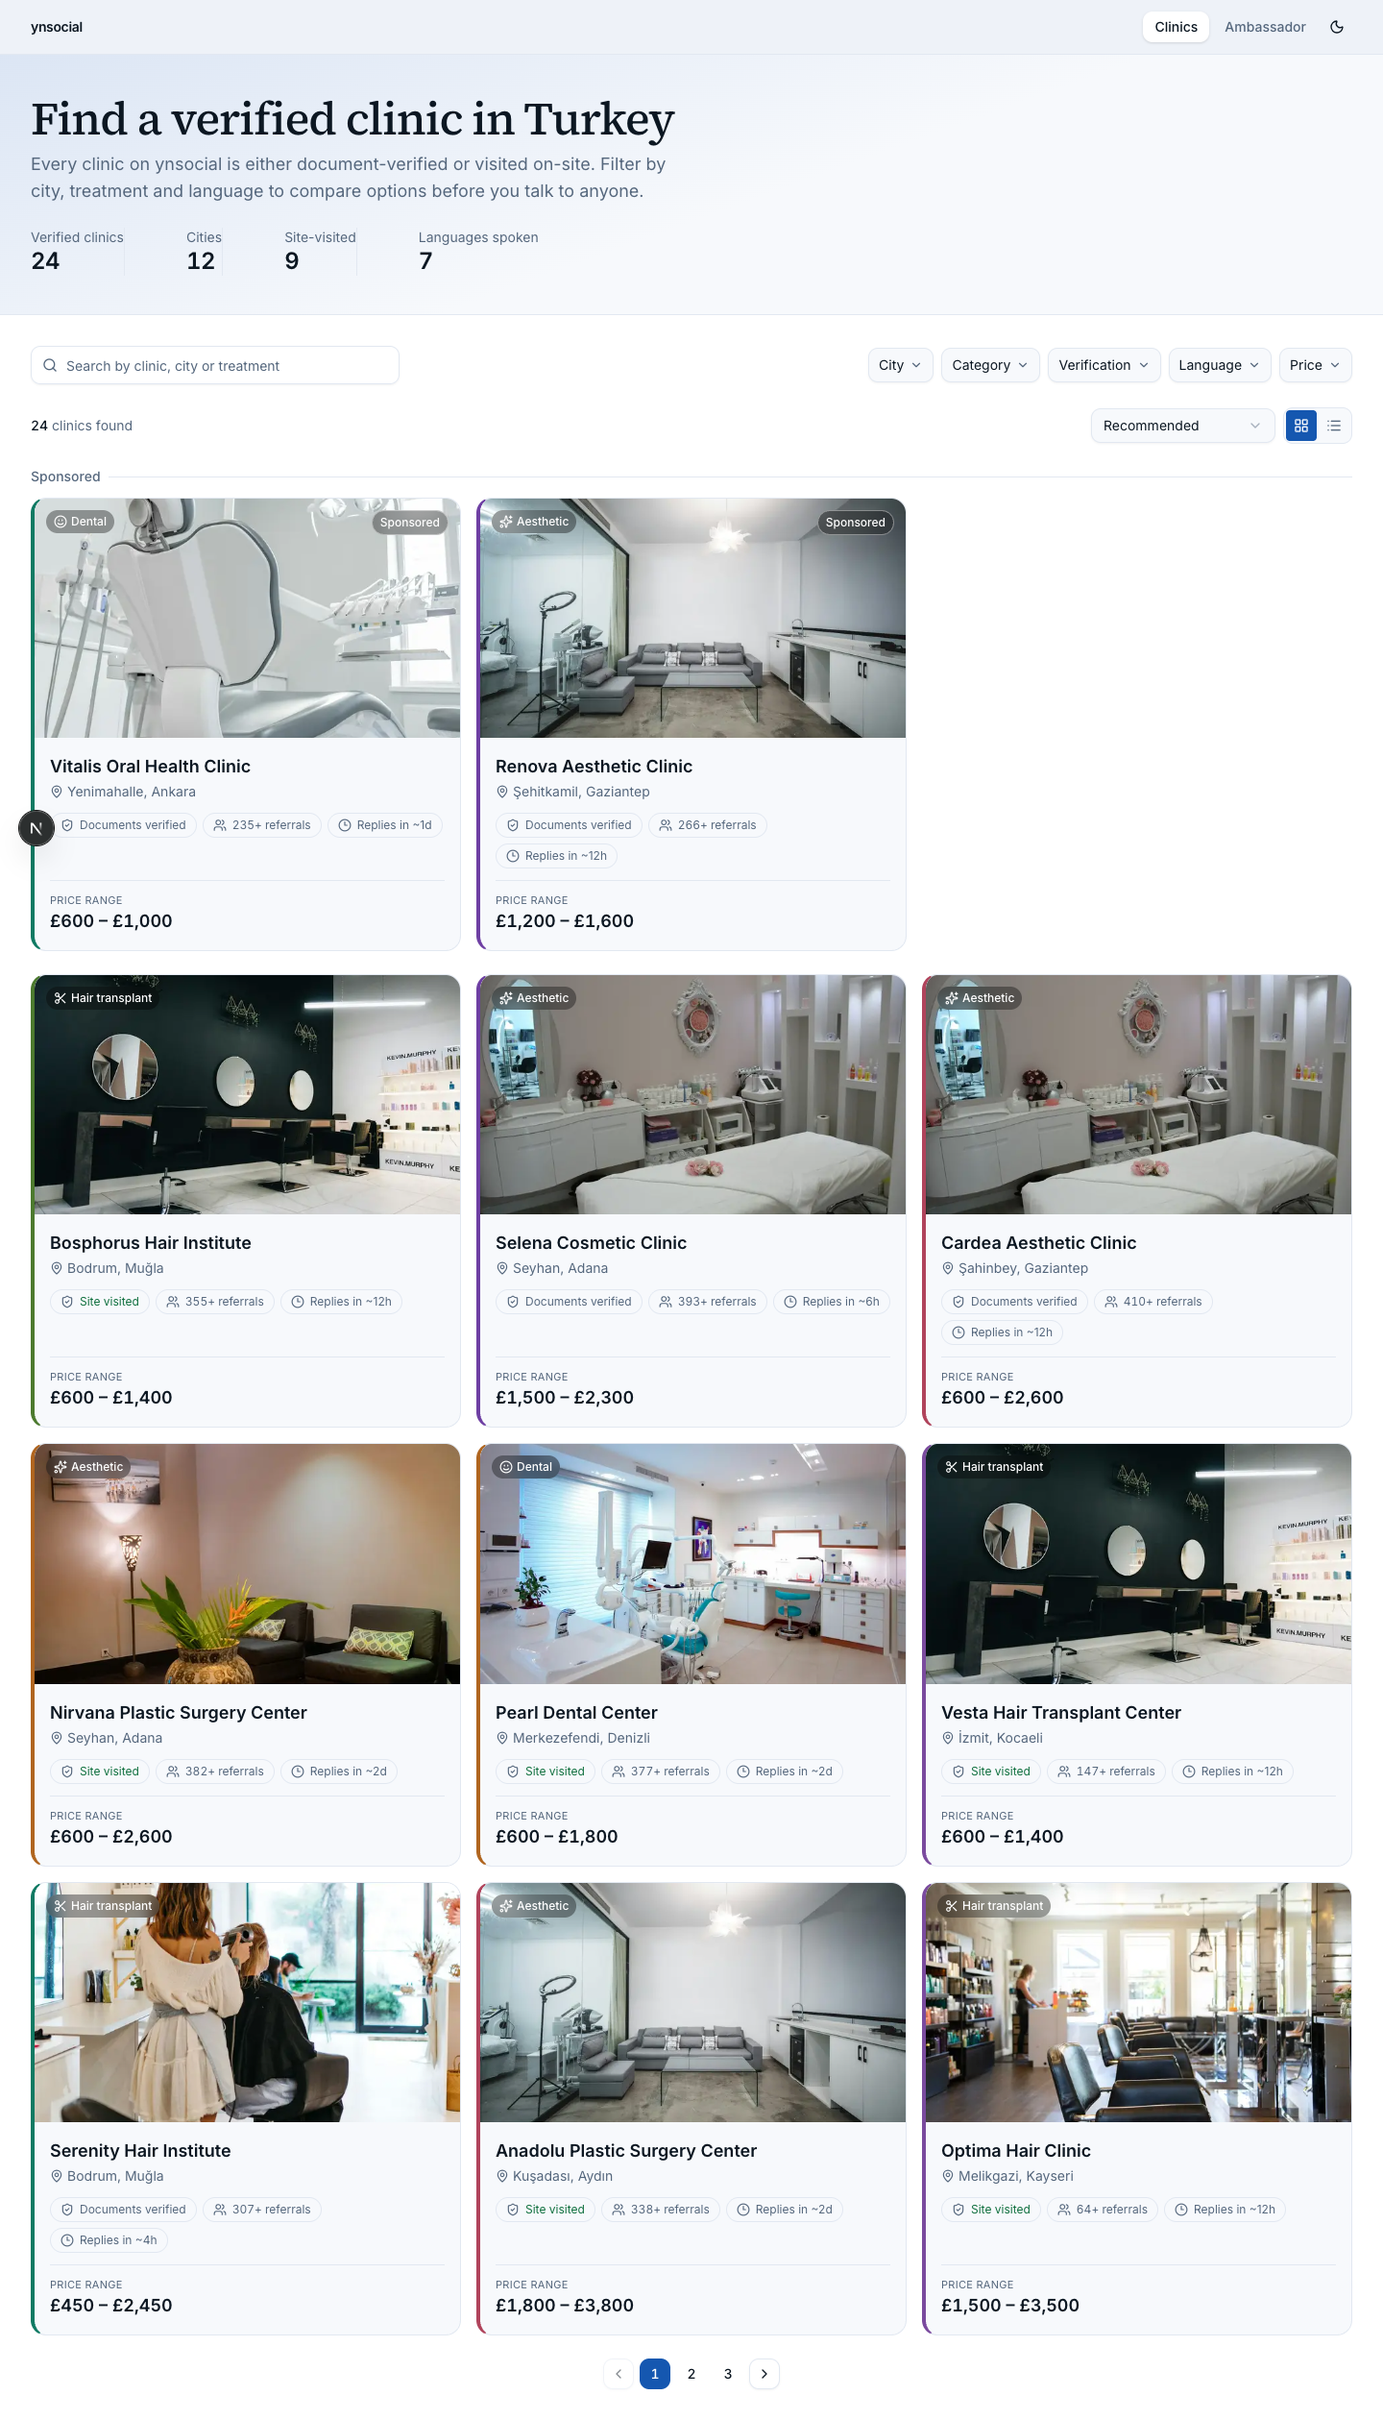
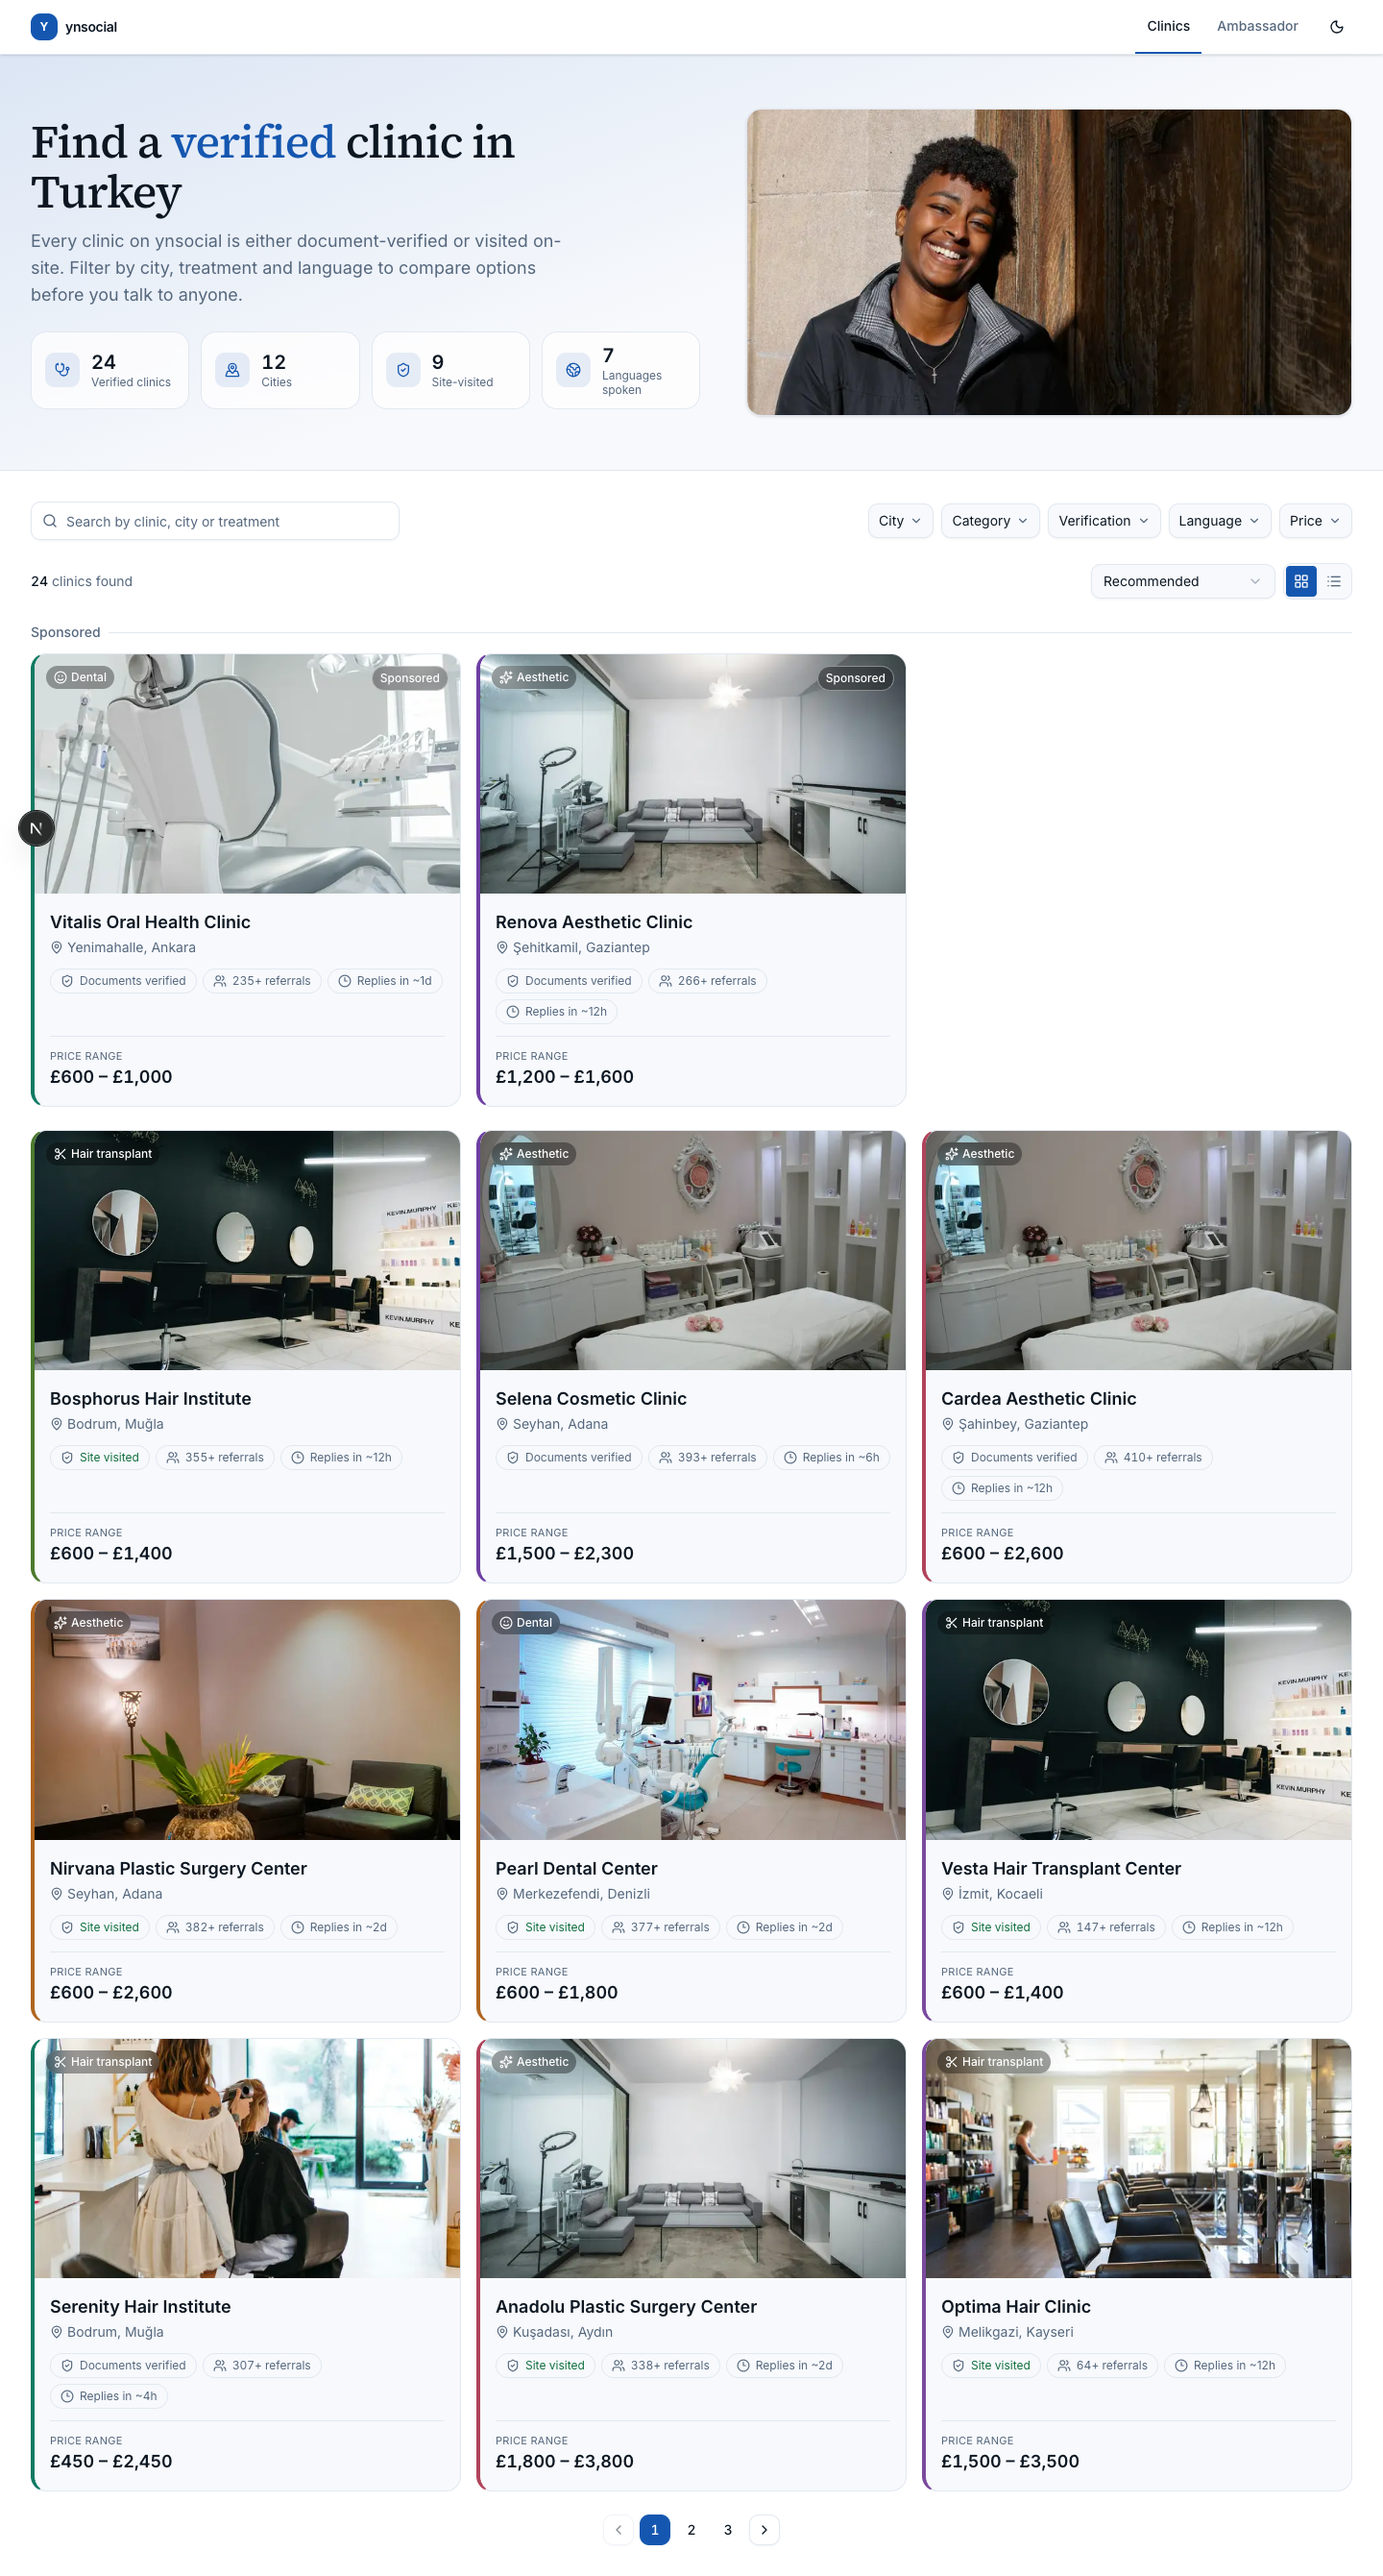
Split the clinics hero, redesign trust stats as tiles, brand the nav
Bigger structural pass after feedback that the page still read as flat:

- /clinics hero is now two columns (copy + stats left, a real photo
  filling the right half on desktop, stacked on mobile) instead of a
  headline sitting alone on a gradient — matches the editorial hero layout
  of the references this project is being compared against.
- Trust stats (verified clinics / cities / site-visited / languages) are
  now individual bordered tiles with an icon, replacing a divide-x row
  that visibly broke apart when it wrapped to a second line.
- Nav bar gets a small colored logomark and an underline active-state
  indicator instead of a filled pill, giving it a designed anchor point
  without going back to a solid colored fill (tried and reverted last
  pass — see README).

diff --git a/src/components/clinics/trust-stats.tsx b/src/components/clinics/trust-stats.tsx
@@ -1,26 +1,36 @@
+import { Globe2, MapPinned, ShieldCheck, Stethoscope, type LucideIcon } from "lucide-react"
 import type { Clinic } from "@/types/clinic"
 
-/** A small strip of real, computed numbers — not decoration, not invented
- *  stats (the platform explicitly has none). Gives the hero some weight
- *  without borrowing a rating system it doesn't have. */
+/** Real, computed numbers as individual tiles — not decoration, not
+ *  invented stats (the platform explicitly has none). Each one is its own
+ *  bordered card rather than a row split by dividers, so it holds up at
+ *  any width instead of wrapping into an orphaned, half-separated line. */
 export function TrustStats({ clinics }: { clinics: Clinic[] }) {
   const cities = new Set(clinics.map((c) => c.city)).size
   const languages = new Set(clinics.flatMap((c) => c.languages)).size
   const siteVisited = clinics.filter((c) => c.verificationLevel === "site_visited").length
 
-  const stats = [
-    { value: clinics.length, label: "Verified clinics" },
-    { value: cities, label: "Cities" },
-    { value: siteVisited, label: "Site-visited" },
-    { value: languages, label: "Languages spoken" },
+  const stats: { value: number; label: string; icon: LucideIcon }[] = [
+    { value: clinics.length, label: "Verified clinics", icon: Stethoscope },
+    { value: cities, label: "Cities", icon: MapPinned },
+    { value: siteVisited, label: "Site-visited", icon: ShieldCheck },
+    { value: languages, label: "Languages spoken", icon: Globe2 },
   ]
 
   return (
-    <dl className="flex flex-wrap gap-x-8 gap-y-3 divide-x divide-border">
+    <dl className="grid grid-cols-2 gap-3 sm:grid-cols-4">
       {stats.map((stat) => (
-        <div key={stat.label} className="pl-8 first:pl-0">
-          <dt className="text-sm text-text-muted">{stat.label}</dt>
-          <dd className="tabular text-2xl font-semibold tracking-tight text-text">{stat.value}</dd>
+        <div
+          key={stat.label}
+          className="flex items-center gap-3 rounded-lg border border-border bg-bg/70 px-3.5 py-3 backdrop-blur-sm"
+        >
+          <span className="flex size-9 shrink-0 items-center justify-center rounded-md bg-primary/10 text-primary">
+            <stat.icon className="size-4" aria-hidden="true" />
+          </span>
+          <div className="min-w-0">
+            <dd className="tabular text-xl font-semibold leading-tight text-text">{stat.value}</dd>
+            <dt className="text-xs leading-tight text-text-muted">{stat.label}</dt>
+          </div>
         </div>
       ))}
     </dl>

diff --git a/src/app/clinics/page.tsx b/src/app/clinics/page.tsx
@@ -1,4 +1,5 @@
 import type { Metadata } from "next"
+import Image from "next/image"
 import { ClinicsExplorer } from "@/components/clinics/clinics-explorer"
 import { TrustStats } from "@/components/clinics/trust-stats"
 import { getClinics } from "@/data/get-clinics"
@@ -20,19 +21,32 @@ export default async function ClinicsPage() {
   return (
     <main className="flex w-full flex-col">
       <div className="hero-panel border-b border-border">
-        <div className="mx-auto flex w-full page-container flex-col gap-6 px-4 py-10 sm:px-5 lg:px-8">
-          <div className="max-w-2xl space-y-2">
-            <h1 className="font-serif text-4xl font-medium tracking-tight text-text sm:text-5xl">
-              Find a verified clinic in Turkey
-            </h1>
-            <p className="text-lg text-text-muted">
-              Every clinic on ynsocial is either document-verified or visited
-              on-site. Filter by city, treatment and language to compare
-              options before you talk to anyone.
-            </p>
+        <div className="mx-auto grid w-full page-container grid-cols-1 items-center gap-8 px-4 py-10 sm:px-5 lg:grid-cols-[1.05fr_0.95fr] lg:gap-12 lg:px-8 lg:py-14">
+          <div className="flex flex-col gap-6">
+            <div className="max-w-xl space-y-3">
+              <h1 className="font-serif text-4xl font-medium tracking-tight text-text sm:text-5xl">
+                Find a <em className="text-primary not-italic">verified</em> clinic in Turkey
+              </h1>
+              <p className="text-lg text-text-muted">
+                Every clinic on ynsocial is either document-verified or visited
+                on-site. Filter by city, treatment and language to compare
+                options before you talk to anyone.
+              </p>
+            </div>
+
+            <TrustStats clinics={clinics} />
           </div>
 
-          <TrustStats clinics={clinics} />
+          <div className="relative aspect-[4/3] w-full overflow-hidden rounded-2xl border border-border shadow-sm lg:aspect-auto lg:h-full lg:min-h-80">
+            <Image
+              src="/images/hero-clinics.jpg"
+              alt=""
+              fill
+              priority
+              sizes="(min-width: 1024px) 45vw, 100vw"
+              className="object-cover"
+            />
+          </div>
         </div>
       </div>
 

diff --git a/src/components/nav/top-nav.tsx b/src/components/nav/top-nav.tsx
@@ -14,13 +14,16 @@ export function TopNav() {
   const pathname = usePathname()
 
   return (
-    <header className="sticky top-0 z-40 border-b border-border bg-surface-2">
+    <header className="sticky top-0 z-40 border-b border-border bg-bg/90 shadow-sm backdrop-blur">
       <div className="mx-auto flex h-14 w-full page-container items-center justify-between px-4 sm:px-5 lg:px-8">
-        <Link href="/clinics" className="text-sm font-semibold tracking-tight text-text">
-          ynsocial
+        <Link href="/clinics" className="flex items-center gap-2">
+          <span className="flex size-7 shrink-0 items-center justify-center rounded-md bg-primary text-xs font-bold text-text-on-primary">
+            Y
+          </span>
+          <span className="text-sm font-semibold tracking-tight text-text">ynsocial</span>
         </Link>
 
-        <nav className="flex items-center gap-1" aria-label="Primary">
+        <nav className="flex h-14 items-center gap-1" aria-label="Primary">
           {LINKS.map((link) => {
             const active = pathname?.startsWith(link.href)
             return (
@@ -29,15 +32,19 @@ export function TopNav() {
                 href={link.href}
                 aria-current={active ? "page" : undefined}
                 className={cn(
-                  "rounded-md px-3 py-1.5 text-sm font-medium transition-colors duration-150",
-                  active ? "bg-bg text-text shadow-sm" : "text-text-muted hover:text-text"
+                  "flex h-full items-center border-b-2 px-3 text-sm font-medium transition-colors duration-150",
+                  active
+                    ? "border-primary text-text"
+                    : "border-transparent text-text-muted hover:text-text"
                 )}
               >
                 {link.label}
               </Link>
             )
           })}
-          <ThemeToggle />
+          <div className="pl-2">
+            <ThemeToggle />
+          </div>
         </nav>
       </div>
     </header>

diff --git a/README.md b/README.md
@@ -281,12 +281,33 @@ matching against (BitPan, Furns) use a colored nav either; their premium
 feel comes entirely from photography, type and whitespace. I reverted the
 nav to its original white/blurred style and put the effort where it
 actually paid off: real photography on every clinic card (decision 3
-above) and a soft single-hue gradient wash on the `/clinics` hero
-(`color-mix` from `--primary` into `--surface`) instead of a flat white
-band. Net result: more color presence than the first pass, delivered by
-photography and one gradient rather than a colored chrome element — and a
-concrete example of a design call that looked reasonable on paper and
-didn't survive contact with a screenshot.
+above), a soft single-hue gradient wash on the `/clinics` hero (`color-mix`
+from `--primary` into `--surface`), and — the actual fix — a hero that
+finally *has* something in it (next paragraph). A concrete example of a
+design call that looked reasonable on paper and didn't survive contact
+with a screenshot.
+
+**A split hero instead of a text block on a gradient.** Even with the
+gradient wash, a headline and four stat numbers over empty space still
+read as thin. The `/clinics` hero is now two columns on desktop — copy and
+the trust-stat tiles on the left, a real photo filling the right half,
+matching the confident editorial layout of the references I was asked to
+match (BitPan, Furns: big photo, bold headline, generous whitespace) —
+and stacks to photo-below-copy on mobile rather than disappearing. The nav
+bar gained the same idea in miniature: a small colored logomark next to
+the wordmark, and the active link is marked with an underline in
+`--primary` instead of a filled pill, which reads as a deliberate,
+designed indicator rather than a flat color block sitting on the bar.
+
+**Stat tiles instead of a row split by dividers.** The four trust
+numbers under the hero used to be plain text separated by `divide-x`
+hairlines — on any width where they wrapped to a second line, the line
+that was supposed to separate two numbers ended up next to nothing,
+looking like a rendering bug rather than a design. Each stat is now its
+own bordered tile with an icon in a tinted `primary/10` chip, arranged in
+a proper 2×2 / 4-across grid — it survives wrapping at any width because
+each tile is a complete, self-contained unit instead of one item in a
+divided row.
 
 ## How the two pages stay one system while looking different
 
@@ -348,12 +369,13 @@ competing visually with the trust-first tone the brief asks for.
 
 ## Photo credits
 
-The 9 category photos in `public/images/clinics/` are from
+The 9 category photos in `public/images/clinics/` and the `/clinics` hero
+photo (`public/images/hero-clinics.jpg`) are from
 [Unsplash](https://unsplash.com), used under the
 [Unsplash License](https://unsplash.com/license) (free for commercial use,
-no permission or attribution required). They represent each treatment
-category generically, per decision 3 above — not the real premises of any
-listed clinic.
+no permission or attribution required). The category photos represent
+each treatment category generically, per decision 3 above — not the real
+premises of any listed clinic; the hero photo is editorial/decorative.
 
 ## Screenshots
 
